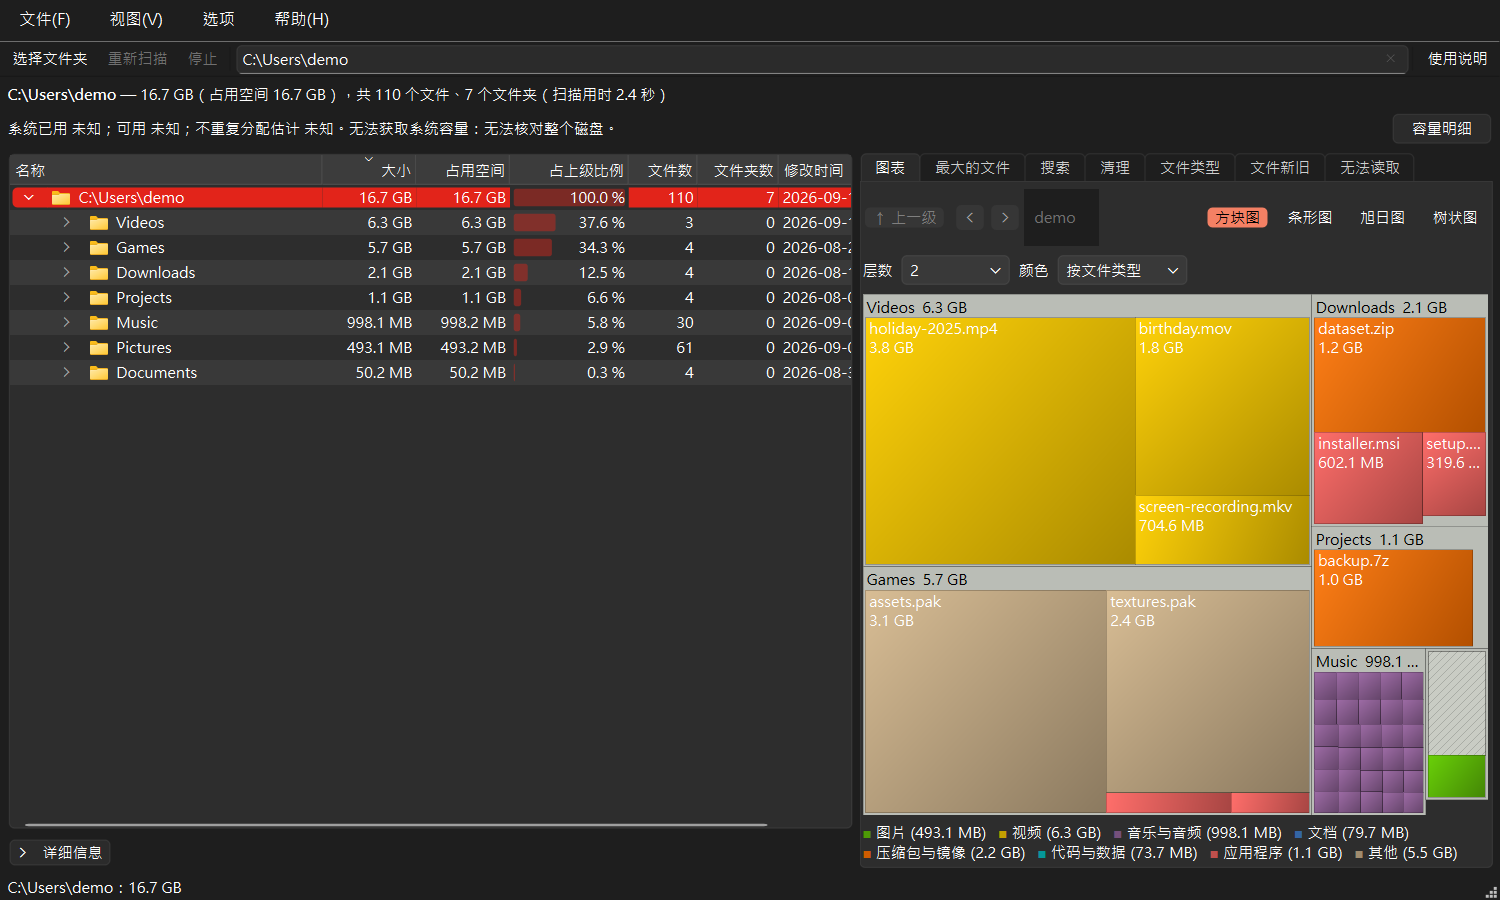
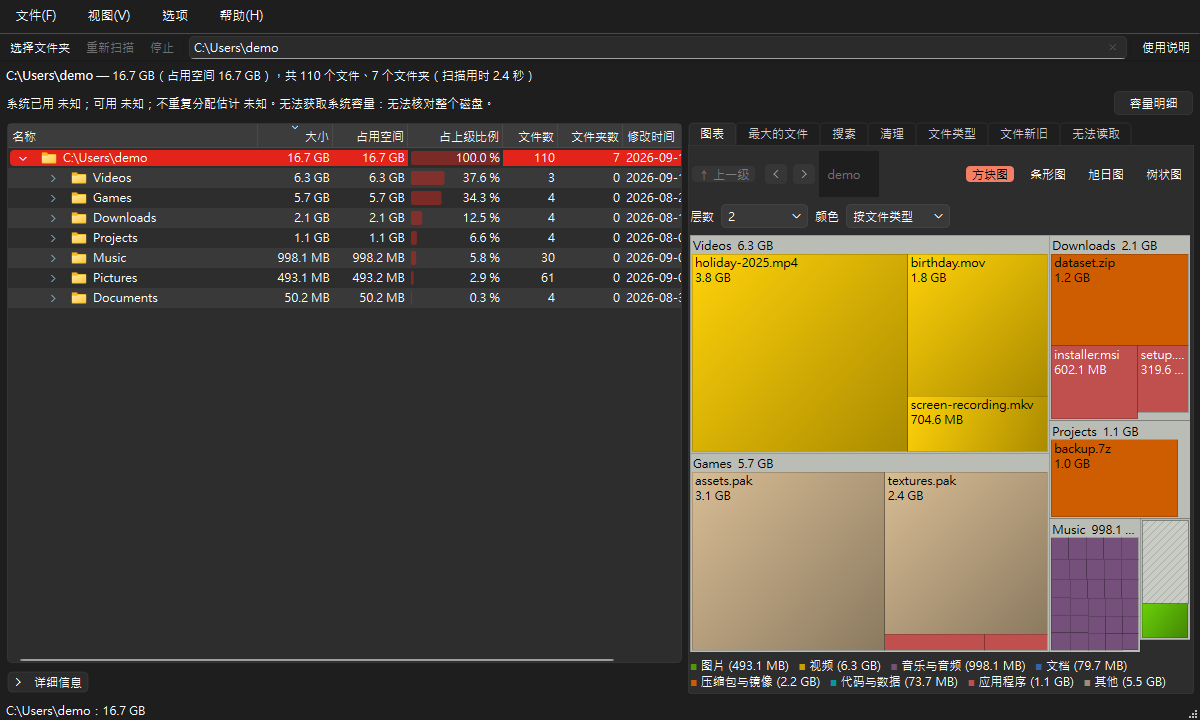
Add persistent light and dark themes with readable chart labels

diff --git a/je_file_tree/gui/themes.py b/je_file_tree/gui/themes.py
@@ -1,0 +1,106 @@
+"""Application-wide native/system or explicit light/dark palettes with persisted menu choices."""
+
+from __future__ import annotations
+
+from PySide6.QtCore import QObject, QSettings, Signal
+from PySide6.QtGui import QAction, QActionGroup, QColor, QPalette
+from PySide6.QtWidgets import QApplication, QMenu
+
+from je_file_tree.gui.i18n import tr
+
+THEMES = ('system', 'light', 'dark')
+_LIGHT = {
+    'Window': '#f3f4f6', 'Base': '#ffffff', 'AlternateBase': '#f0f3f8',
+    'Text': '#17202a', 'WindowText': '#17202a', 'Button': '#e8ecf2', 'ButtonText': '#17202a',
+    'Highlight': '#245ba5', 'HighlightedText': '#ffffff', 'Mid': '#8794a4',
+    'Dark': '#a4afbd', 'Light': '#ffffff', 'Midlight': '#e0e5ec', 'Shadow': '#667482',
+    'ToolTipBase': '#fffbe5', 'ToolTipText': '#17202a', 'Link': '#205aa0', 'LinkVisited': '#7747a6',
+    'PlaceholderText': '#657283', 'BrightText': '#a51d2d',
+}
+_DARK = {
+    'Window': '#292d33', 'Base': '#20242a', 'AlternateBase': '#30363e',
+    'Text': '#e8edf3', 'WindowText': '#e8edf3', 'Button': '#3a424c', 'ButtonText': '#e8edf3',
+    'Highlight': '#2d6acc', 'HighlightedText': '#ffffff', 'Mid': '#74808f',
+    'Dark': '#15191f', 'Light': '#586577', 'Midlight': '#3e4856', 'Shadow': '#0f141a',
+    'ToolTipBase': '#e8edf3', 'ToolTipText': '#17202a', 'Link': '#86baff', 'LinkVisited': '#cfafff',
+    'PlaceholderText': '#a0acbc', 'BrightText': '#ff97a7',
+}
+
+
+def theme_palette(theme: str) -> QPalette:
+    """Build an explicit palette; an empty system palette restores Qt's native platform defaults."""
+    palette = QPalette()
+    if theme not in ('light', 'dark'):
+        return palette
+    for role, colour in (_LIGHT if theme == 'light' else _DARK).items():
+        palette.setColor(getattr(QPalette.ColorRole, role), QColor(colour))
+    disabled = QColor('#657283' if theme == 'light' else '#a0acbc')
+    for role in (QPalette.ColorRole.Text, QPalette.ColorRole.WindowText, QPalette.ColorRole.ButtonText):
+        palette.setColor(QPalette.ColorGroup.Disabled, role, disabled)
+    return palette
+
+
+class ThemeController(QObject):
+    """Own the native style once, switching explicit palettes without changing scan data."""
+
+    changed = Signal(str)
+
+    def __init__(self, app: QApplication) -> None:
+        super().__init__(app)
+        self.app = app
+        self.native_style = app.style().objectName()
+        self.choice = 'system'
+
+    def apply(self, theme: str) -> None:
+        """Apply one validated choice; System resets the palette's resolve mask to native defaults."""
+        theme = theme if theme in THEMES else 'system'
+        self.app.setStyle(self.native_style if theme == 'system' else 'Fusion')
+        self.app.setPalette(theme_palette(theme))
+        self.choice = theme
+        self.changed.emit(theme)
+
+
+def theme_controller() -> ThemeController:
+    """Return the single controller attached to this QApplication, creating it before any override."""
+    app = QApplication.instance()
+    if not isinstance(app, QApplication):
+        raise RuntimeError('a QApplication is required')
+    controller = getattr(app, '_filetree_theme_controller', None)
+    if controller is None:
+        controller = ThemeController(app)
+        app._filetree_theme_controller = controller
+    return controller
+
+
+class ThemeMenu(QMenu):
+    """A translated exclusive View → Theme submenu, with an independent saved setting."""
+
+    def __init__(self, parent: QMenu, settings: QSettings) -> None:
+        super().__init__(parent)
+        parent.addMenu(self)
+        self.settings = settings
+        self.controller = theme_controller()
+        group = QActionGroup(self)
+        self.actions_by_theme: dict[str, QAction] = {}
+        for theme in THEMES:
+            action = self.addAction('')
+            action.setCheckable(True)
+            group.addAction(action)
+            action.triggered.connect(lambda _checked=False, choice=theme: self._choose(choice))
+            self.actions_by_theme[theme] = action
+        self.controller.changed.connect(self._mark)
+        self._mark(self.controller.choice)
+        self.retranslate()
+
+    def retranslate(self) -> None:
+        """Refresh the submenu labels in the current language without changing the choice."""
+        self.setTitle(tr('menu_theme'))
+        for theme, action in self.actions_by_theme.items():
+            action.setText(tr(f'theme_{theme}'))
+
+    def _choose(self, theme: str) -> None:
+        self.settings.setValue('theme', theme)
+        self.controller.apply(theme)
+
+    def _mark(self, theme: str) -> None:
+        self.actions_by_theme[theme].setChecked(True)

diff --git a/test/test_themes.py b/test/test_themes.py
@@ -1,0 +1,87 @@
+"""Light/dark palettes keep labels readable and reset cached/native rendering correctly."""
+
+import pytest
+from PySide6.QtGui import QColor, QPalette
+from PySide6.QtWidgets import QApplication
+
+from test_gui import window as window  # noqa: PLC0414 - explicit pytest fixture re-export
+from je_file_tree.core.scanner import scan
+from je_file_tree.gui.age_colours import AGE_COLOURS, UNKNOWN_AGE_COLOUR
+from je_file_tree.gui.app import create_window
+from je_file_tree.gui.charts import BARS
+from je_file_tree.gui.colours import contrast, readable_ink
+from je_file_tree.gui.main_window import RESULTS_PAGE
+from je_file_tree.gui.scan_worker import analyse
+from je_file_tree.gui.themes import theme_controller, theme_palette
+from je_file_tree.gui.treemap_widget import CATEGORY_COLOURS
+
+
+@pytest.mark.parametrize('theme', ['light', 'dark'])
+def test_primary_and_selected_palette_text_meets_minimum_contrast(theme) -> None:
+    palette = theme_palette(theme)
+    for ink, fill in ((QPalette.ColorRole.Text, QPalette.ColorRole.Base),
+                      (QPalette.ColorRole.WindowText, QPalette.ColorRole.Window),
+                      (QPalette.ColorRole.ButtonText, QPalette.ColorRole.Button),
+                      (QPalette.ColorRole.HighlightedText, QPalette.ColorRole.Highlight)):
+        assert contrast(palette.color(ink), palette.color(fill)) >= 4.5
+
+
+@pytest.mark.parametrize('colour', [*CATEGORY_COLOURS.values(), *AGE_COLOURS.values(), UNKNOWN_AGE_COLOUR])
+def test_chart_label_ink_is_readable_for_every_existing_category_and_age(colour) -> None:
+    fill = QColor(colour)
+    assert contrast(readable_ink(fill), fill) >= 4.5
+
+
+def test_theme_menu_persists_translates_and_resets_native_style(window, qapp, sample_tree) -> None:
+    controller = theme_controller()
+    native_style, native_palette = controller.native_style, QApplication.palette()
+    window.results.show_outcome(analyse(scan(sample_tree)))
+    chart = window.results.charts.treemap
+    chart.grab()
+    assert chart._pixmap is not None
+    window.theme_menu.actions_by_theme['light'].trigger()
+    assert window.settings.value('theme') == 'light' and qapp.style().objectName() == 'fusion'
+    assert chart._pixmap is None
+    assert QApplication.palette().color(QPalette.ColorRole.Text).lightnessF() < .5
+    chart.grab()
+    window.theme_menu.actions_by_theme['dark'].trigger()
+    assert chart._pixmap is None and QApplication.palette().color(QPalette.ColorRole.Text).lightnessF() > .5
+    window.theme_menu.actions_by_theme['system'].trigger()
+    assert qapp.style().objectName() == native_style
+    assert QApplication.palette().color(QPalette.ColorRole.Text) == native_palette.color(QPalette.ColorRole.Text)
+    window.change_language('zh-TW')
+    assert window.theme_menu.title() == '主題' and window.theme_menu.actions_by_theme['light'].text() == '淺色'
+
+
+def test_saved_theme_restores_before_the_window_and_unknown_values_fall_back(window, qapp) -> None:
+    window.settings.setValue('theme', 'dark')
+    other = create_window(window.settings)
+    assert other.theme_menu.actions_by_theme['dark'].isChecked()
+    assert QApplication.palette().color(QPalette.ColorRole.Text).lightnessF() > .5
+    other.close()
+    other.deleteLater()
+    window.settings.setValue('theme', 'invalid')
+    other = create_window(window.settings)
+    assert other.theme_menu.actions_by_theme['system'].isChecked()
+    assert theme_palette('system').resolveMask() == 0
+    other.close()
+    other.deleteLater()
+
+
+@pytest.mark.parametrize('theme', ['light', 'dark'])
+def test_bar_names_and_values_render_using_palette_ink(window, qapp, sample_tree, theme) -> None:
+    window.results.show_outcome(analyse(scan(sample_tree)))
+    window.pages.setCurrentIndex(RESULTS_PAGE)
+    window.results.charts.set_mode(BARS)
+    window.theme_menu.actions_by_theme[theme].trigger()
+    window.show()
+    qapp.processEvents()
+    chart = window.results.charts.bars
+    image = chart.grab().toImage()
+    text = chart.palette().color(QPalette.ColorRole.Text).rgb()
+    height = chart._row_height()
+    name_pixels = {image.pixel(x, y) for x in range(25, 160) for y in range(3, height - 2)}
+    value_pixels = {image.pixel(x, y) for x in range(image.width() - 140, image.width() - 8)
+                    for y in range(3, height - 2)}
+    assert text in name_pixels and text in value_pixels
+    window.theme_menu.actions_by_theme['system'].trigger()

diff --git a/je_file_tree/gui/treemap_widget.py b/je_file_tree/gui/treemap_widget.py
@@ -37,7 +37,8 @@ from je_file_tree.core.formatting import AUTO_UNIT, format_count, format_share, 
 from je_file_tree.core.node import Node
 from je_file_tree.core.treemap import Rect, Tile, layout
 from je_file_tree.gui.i18n import tr
-from je_file_tree.gui.age_colours import age_colour, age_text_colour
+from je_file_tree.gui.age_colours import age_colour
+from je_file_tree.gui.colours import MIN_TEXT_CONTRAST, contrast, readable_ink
 
 # One colour per file-type group (every key of analysis.CATEGORIES), readable on
 # light and dark themes alike.
@@ -241,7 +242,9 @@ class TreemapWidget(QWidget):
             return
         node = tile.node
         colour = self._colour(node, tile.depth)
-        if min(rect.width(), rect.height()) >= _SHADE_MIN_SIDE and not node.is_dir and self._colours != BY_AGE:
+        ink = readable_ink(colour)
+        if (min(rect.width(), rect.height()) >= _SHADE_MIN_SIDE and not node.is_dir and self._colours != BY_AGE
+                and min(contrast(ink, colour.lighter(135)), contrast(ink, colour.darker(115))) >= MIN_TEXT_CONTRAST):
             gradient = QLinearGradient(rect.topLeft(), rect.bottomRight())
             gradient.setColorAt(0.0, colour.lighter(135))
             gradient.setColorAt(1.0, colour.darker(115))
@@ -253,8 +256,7 @@ class TreemapWidget(QWidget):
         if rect.width() < _LABEL_MIN_WIDTH or rect.height() < _LABEL_MIN_HEIGHT:
             return
         size = format_size(node.size, self.unit)
-        painter.setPen(age_text_colour(colour) if self._colours == BY_AGE else
-                       QColor("#000000") if node.is_dir else QColor("#ffffff"))
+        painter.setPen(ink)
         if tile.header:
             strip = QRectF(rect.x() + 3, rect.y() + 2, rect.width() - 6, tile.header)
             self._draw_label(painter, strip, f"{node.name}  {size}", Qt.AlignmentFlag.AlignVCenter)

diff --git a/je_file_tree/gui/strings.py b/je_file_tree/gui/strings.py
@@ -9,6 +9,11 @@ def _cjk(html: str) -> str:
 
 
 EN: dict[str, str] = {
+    "menu_theme": "Theme",
+    "theme_system": "System",
+    "theme_light": "Light",
+    "theme_dark": "Dark",
+
     "chart_access_keys": ("Arrow keys select rendered entries. Enter opens a folder; Backspace goes up. "
                           "Use the folder tree for grouped or hidden entries."),
     "chart_access_tree_keys": ("Up/Down selects cards; Right/Left expands/collapses folders. "
@@ -677,6 +682,11 @@ listed greyed out, with size 0.</li>
 }
 
 ZH_TW: dict[str, str] = {
+    "menu_theme": "主題",
+    "theme_system": "系統",
+    "theme_light": "淺色",
+    "theme_dark": "深色",
+
     "chart_access_keys": ("方向鍵選取已繪製項目；Enter 開啟資料夾，Backspace 返回上層。"
                           "合併或未顯示的項目可使用資料夾樹查看。"),
     "chart_access_tree_keys": "上／下選取卡片，右／左展開或收合資料夾。Enter 開啟資料夾，Backspace 返回上層。",
@@ -1276,6 +1286,11 @@ FileTree 不會永久刪除任何東西：每次都會先詢問，
 }
 
 ZH_CN: dict[str, str] = {
+    "menu_theme": "主题",
+    "theme_system": "系统",
+    "theme_light": "浅色",
+    "theme_dark": "深色",
+
     "chart_access_keys": ("方向键选择已绘制条目；Enter 打开文件夹，Backspace 返回上级。"
                           "合并或未显示的条目可使用文件夹树查看。"),
     "chart_access_tree_keys": "上／下选择卡片，右／左展开或折叠文件夹。Enter 打开文件夹，Backspace 返回上级。",

diff --git a/je_file_tree/gui/sunburst_widget.py b/je_file_tree/gui/sunburst_widget.py
@@ -28,7 +28,8 @@ from je_file_tree.core.formatting import AUTO_UNIT, format_share, format_size
 from je_file_tree.core.node import Node
 from je_file_tree.core.sunburst import Segment, layout, segment_at
 from je_file_tree.gui.i18n import tr
-from je_file_tree.gui.age_colours import age_colour, age_text_colour
+from je_file_tree.gui.age_colours import age_colour
+from je_file_tree.gui.colours import readable_ink
 from je_file_tree.gui.treemap_widget import BY_AGE, BY_FOLDER, BY_TYPE, COLOUR_MODES, colour_for
 
 RINGS = 4  # at most; fewer when the tree is shallower, so the rings always fill the space
@@ -274,7 +275,7 @@ class SunburstWidget(QWidget):
         point = QPointF(centre.x() + radius * math.sin(angle), centre.y() - radius * math.cos(angle))
         width = min(segment.span * 2 * math.pi * radius, ring * 1.6)
         box = QRectF(point.x() - width / 2, point.y() - ring / 2, width, ring)
-        painter.setPen(age_text_colour(self._colour(segment)) if self._colours == BY_AGE else QColor("#000000"))
+        painter.setPen(readable_ink(self._colour(segment)))
         text = painter.fontMetrics().elidedText(segment.node.name, Qt.TextElideMode.ElideRight, int(width))
         painter.drawText(box, Qt.AlignmentFlag.AlignCenter, text)
 

diff --git a/je_file_tree/gui/main_window.py b/je_file_tree/gui/main_window.py
@@ -47,6 +47,7 @@ from je_file_tree.gui.scan_worker import AnalyseWorker, ExportWorker, ScanOutcom
 from je_file_tree.gui.trash_worker import TrashWorker
 from je_file_tree.gui.recent_actions import RecentActions, journal_folder
 from je_file_tree.gui.welcome import WelcomePage
+from je_file_tree.gui.themes import ThemeMenu
 
 WELCOME_PAGE, RESULTS_PAGE = range(2)
 # How often the tree of a running scan is refreshed.
@@ -614,6 +615,7 @@ class MainWindow(QMainWindow):
         self.path_edit.setToolTip(tr("path_placeholder"))
         self.welcome.retranslate()
         self.results.retranslate()
+        self.theme_menu.retranslate()
         self._language_actions[current_language()].setChecked(True)
 
     def _remember(self, path: str) -> None:
@@ -758,6 +760,7 @@ class MainWindow(QMainWindow):
             action.triggered.connect(lambda _checked=False, chosen=code: self.change_language(chosen))
             self._language_actions[code] = action
         view_menu.addSeparator()
+        self.theme_menu = ThemeMenu(view_menu, self.settings)
         view_menu.addAction(self._actions["hidden"])
         view_menu.addAction(self._actions["exclusions"])
         view_menu.addAction(self._actions["ask_admin"])

diff --git a/je_file_tree/gui/colours.py b/je_file_tree/gui/colours.py
@@ -1,0 +1,26 @@
+"""Contrast-based chart label ink, independent of the window's background theme."""
+
+from PySide6.QtGui import QColor
+
+MIN_TEXT_CONTRAST = 4.5
+_SRGB_LINEAR_BOUNDARY = 0.04045
+
+
+def luminance(colour: QColor) -> float:
+    """Relative sRGB luminance for an opaque colour."""
+    channels = (colour.redF(), colour.greenF(), colour.blueF())
+    linear = tuple(channel / 12.92 if channel <= _SRGB_LINEAR_BOUNDARY else ((channel + .055) / 1.055) ** 2.4
+                   for channel in channels)
+    return .2126 * linear[0] + .7152 * linear[1] + .0722 * linear[2]
+
+
+def contrast(first: QColor, second: QColor) -> float:
+    """Ratio between two opaque sRGB colours, from 1 to 21."""
+    bright, dark = sorted((luminance(first), luminance(second)), reverse=True)
+    return (bright + .05) / (dark + .05)
+
+
+def readable_ink(background: QColor) -> QColor:
+    """Choose the stronger of black/white text; flat opaque fills reach at least 4.5:1."""
+    black, white = QColor('#000000'), QColor('#ffffff')
+    return black if contrast(black, background) >= contrast(white, background) else white

diff --git a/je_file_tree/gui/app.py b/je_file_tree/gui/app.py
@@ -15,6 +15,7 @@ from je_file_tree.gui import elevation
 from je_file_tree.gui.main_window import ASK_ADMIN_KEY, MainWindow, read_flag
 from je_file_tree.gui.qt_translation import apply_qt_translation
 from je_file_tree.gui.scan_worker import pace_workers
+from je_file_tree.gui.themes import theme_controller
 
 ORGANIZATION = "JE-Chen"
 APPLICATION = "FileTree"
@@ -26,6 +27,7 @@ def create_window(settings: QSettings, folder: str | None = None) -> MainWindow:
     if language not in LANGUAGES:
         language = match_language(QLocale.system().name())
     set_language(language)
+    theme_controller().apply(str(settings.value('theme', 'system')))
     apply_qt_translation(language)
     window = MainWindow(settings)
     window.setWindowIcon(app_icon())

diff --git a/je_file_tree/gui/age_colours.py b/je_file_tree/gui/age_colours.py
@@ -8,10 +8,10 @@ from PySide6.QtGui import QColor
 
 from je_file_tree.core.analysis import AGES, age_of
 from je_file_tree.core.node import Node
+from je_file_tree.gui.colours import readable_ink
 
 AGE_COLOURS = dict(zip(AGES, ("#d7e9f4", "#aacfe2", "#7caac7", "#527fa4", "#315a80"), strict=True))
 UNKNOWN_AGE_COLOUR = "#b9b9b9"
-_LIGHT_LABEL_LIMIT = .55
 
 
 def age_colour(node: Node, now: float) -> QColor:
@@ -23,4 +23,4 @@ def age_colour(node: Node, now: float) -> QColor:
 
 def age_text_colour(colour: QColor) -> QColor:
     """Keep chart labels readable across the light-to-dark age palette."""
-    return QColor("#17202a" if colour.lightnessF() > _LIGHT_LABEL_LIMIT else "#ffffff")
+    return readable_ink(colour)

diff --git a/je_file_tree/gui/chart_accessibility.py b/je_file_tree/gui/chart_accessibility.py
@@ -62,6 +62,8 @@ class ChartAccessibility(QObject):
         """Handle chart-only keys; modified shortcuts and Tree diagram's existing navigation pass through."""
         if event.type() == QEvent.Type.FocusIn:
             self.refresh()
+        if event.type() in (QEvent.Type.PaletteChange, QEvent.Type.StyleChange):
+            self.chart.invalidate()
         if (not isinstance(event, QKeyEvent) or event.type() != QEvent.Type.KeyPress
                 or event.modifiers() & _SHORTCUT_MODIFIERS):
             return False

diff --git a/docs/updates/2026-10.md b/docs/updates/2026-10.md
@@ -411,3 +411,11 @@ ChartAccessibility uses QObject event filters and existing cached/bounded geomet
 Validation: ten tests across all four modes for actual Qt accessible interface text, arrow selection, nested Enter/Backspace, history shortcuts, file/link/detached rejection, bounded bar rows and scrolling, existing diagram expand/collapse and language changes. Full suite: 492 passed, 2 skipped; Ruff clean. Three READMEs and screenshots updated.
 
 Also fixed the CSV cancellation race exposed by Linux CI run 37591398159: after queue.get times out, ListStream rechecks the cancellation error before treating closed as normal EOF. A writer cancelled during its wait previously could commit just its header. The new synchronized regression waits until the worker enters queue.get, cancels there, and verifies failure plus preservation of the existing target and no temporary file. The close-cancellation regression remains unchanged.
+
+## U-20261007-29 · 2026-10-07 · System, light and dark themes with readable chart labels · #done #themes #charts
+
+- **What**: Completed progress.md #45. Added persisted System, Light and Dark choices under View > Theme. Native System style/palette is restored when selected; explicit themes use Fusion with matching active, inactive and disabled palettes. All charts invalidate their caches on palette/style changes.
+- **Result / numbers**: Flat chart labels choose black or white at a minimum 4.5:1 contrast. Treemap gradients remain only when both ends meet that contrast. Bar labels and values follow the theme text colour. 512 tests passed, 2 platform-dependent tests skipped; Ruff clean.
+- **Files**: `gui/themes.py`, `gui/colours.py`, chart widgets/accessibility, app/main window, all three string tables/READMEs, architecture, screenshots and theme tests.
+- **Evidence**: Native hidden-window previews checked in both themes across all four chart modes; Traditional Chinese labels remain readable. Native Windows palette-reset probe confirms System restores defaults. README screenshots regenerated by the standard tool.
+- **Open items**: none for #45.

diff --git a/progress.md b/progress.md
@@ -65,7 +65,6 @@ Cross-repo and workspace items live in `D:\Codes\progress.md`.
 
 - **#42** (P2) Drive overview: a page with every volume's file system, size, used, free, cluster size and Recycle Bin size (#21), with a free-space bar; double-click scans it. Grows out of the welcome page's drive buttons (`je_file_tree/gui/welcome.py`).
 - **#44** (P2) Windows shell integration: *Scan with FileTree* in Explorer's folder menu (a verb under `HKCU\Software\Classes\Directory\shell`, added and removed from the Options dialog, no administrator rights needed) and *Properties* in FileTree's context menu (`ShellExecuteExW` with the `properties` verb, `je_file_tree/gui/main_window.py:171`).
-- **#45** (P3) Light theme: check the charts and the bar chart's text on a light system theme (every screenshot so far is dark) and offer a light/dark switch.
 - **#68** (P2) Quick filter in the tree: type to show only the rows whose name matches, within the folders already expanded; a proxy model over `FolderTreeModel` that respects the live model and its persistent indexes (`je_file_tree/gui/tree_model.py` `_relayout`).
 - **#69** (P3) Several scans at once: result tabs, each its own scan, to look at two drives side by side; the window's single `ResultsView` becomes one per tab, with the scan worker per tab.
 - **#83** (P2) Same-volume file management: add batch *Move to folder* and *Rename* from the tree, Search and Largest files, with a preview of every source and destination. On the same volume, use atomic rename where supported; reject moves into descendants, protected destinations and path collisions, offer explicit skip/rename choices for existing names, and never silently overwrite. Keep the original in place on failure; cancel between files and rescan both affected parents. Cross-volume moves remain #22's verified-copy workflow.
